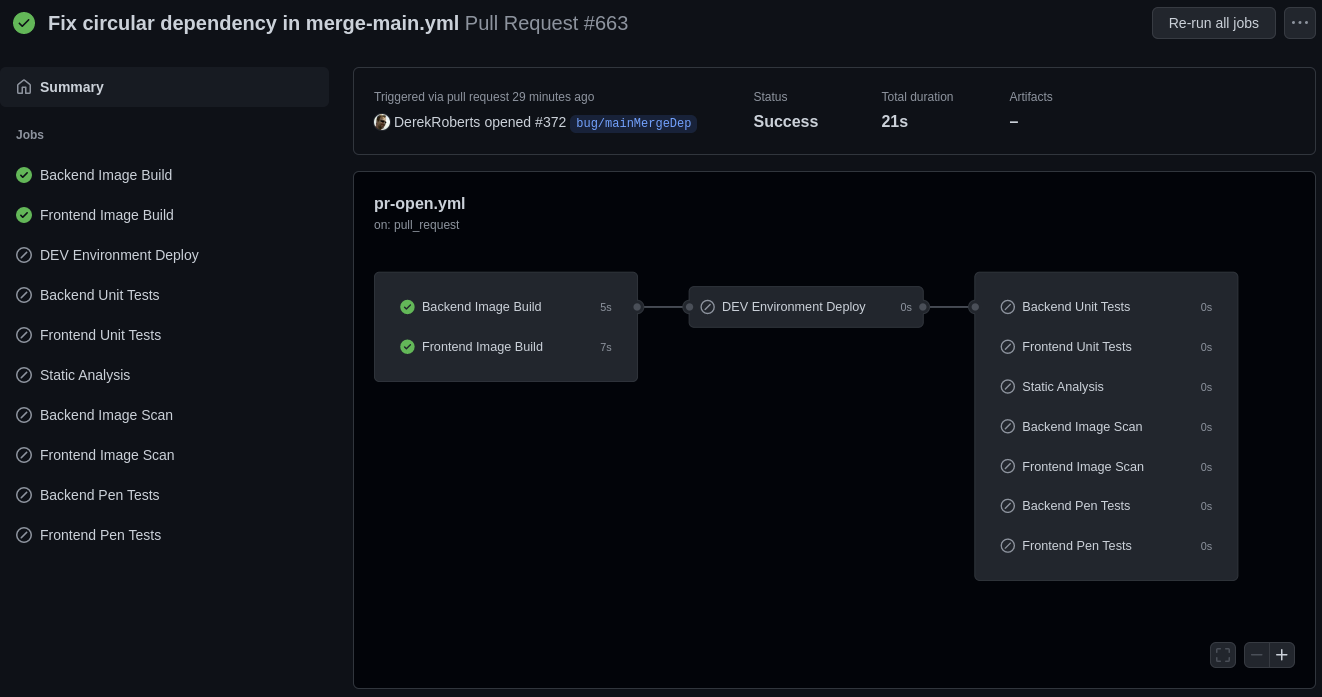
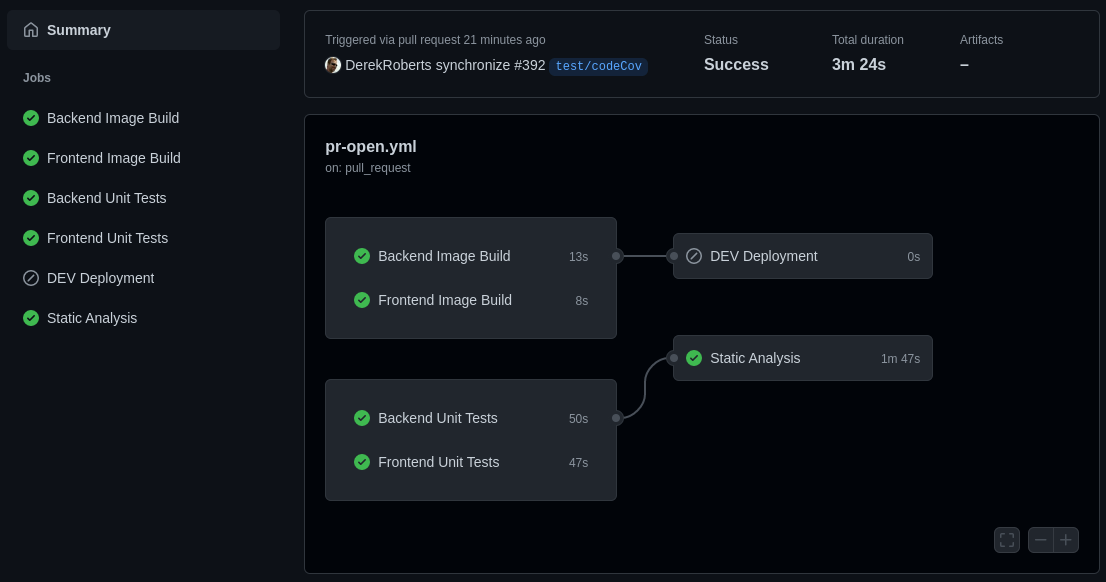
More graphics

diff --git a/README.md b/README.md
@@ -125,8 +125,6 @@ The workflow, located [here](https://github.com/bcgov/greenfield-template/blob/m
 * [RedHat OpenShift](https://www.redhat.com/en/technologies/cloud-computing/openshift) deployment, with other options under consideration
 * [Jest](https://jestjs.io/) JavaScript testing enforced in-pipeline
 * [SonarCloud](https://sonarcloud.io/) static analysis test coverage reporting
-* [Tryvy](https://aquasecurity.github.io/trivy) image, infrastructure and config scanning
-* [OWASP ZAP](https://www.zaproxy.org/) Zed Attack Proxy web app penetration testing
 
 ![Pull Request Open](.github/graphics/pr-open.png)
 
@@ -158,7 +156,8 @@ If this closure was triggered by a merge to the main branch it will trigger the 
 The workflow, located [here](https://github.com/bcgov/greenfield-template/blob/main/.github/workflows/merge-main.yml), includes:
 
 * [GitHub CodeQL](https://codeql.github.com/) semantic code analysis and vulerability scanning
-* [SonarCloud](https://sonarcloud.io/) continuous code quality and security scanning
+* [OWASP ZAP](https://www.zaproxy.org/) Zed Attack Proxy web app penetration testing
+* [SonarCloud](https://sonarcloud.io/) static analysis for continuous code quality and security scanning
 * [Snyk](https://snyk.io/) vulnerability scanning and PR-based dependency patching
 * [Tryvy](https://aquasecurity.github.io/trivy) repository and base image scanning
 * Higher-level deployments (e.g. TEST, STAGING, PRE-PROD, PROD)
